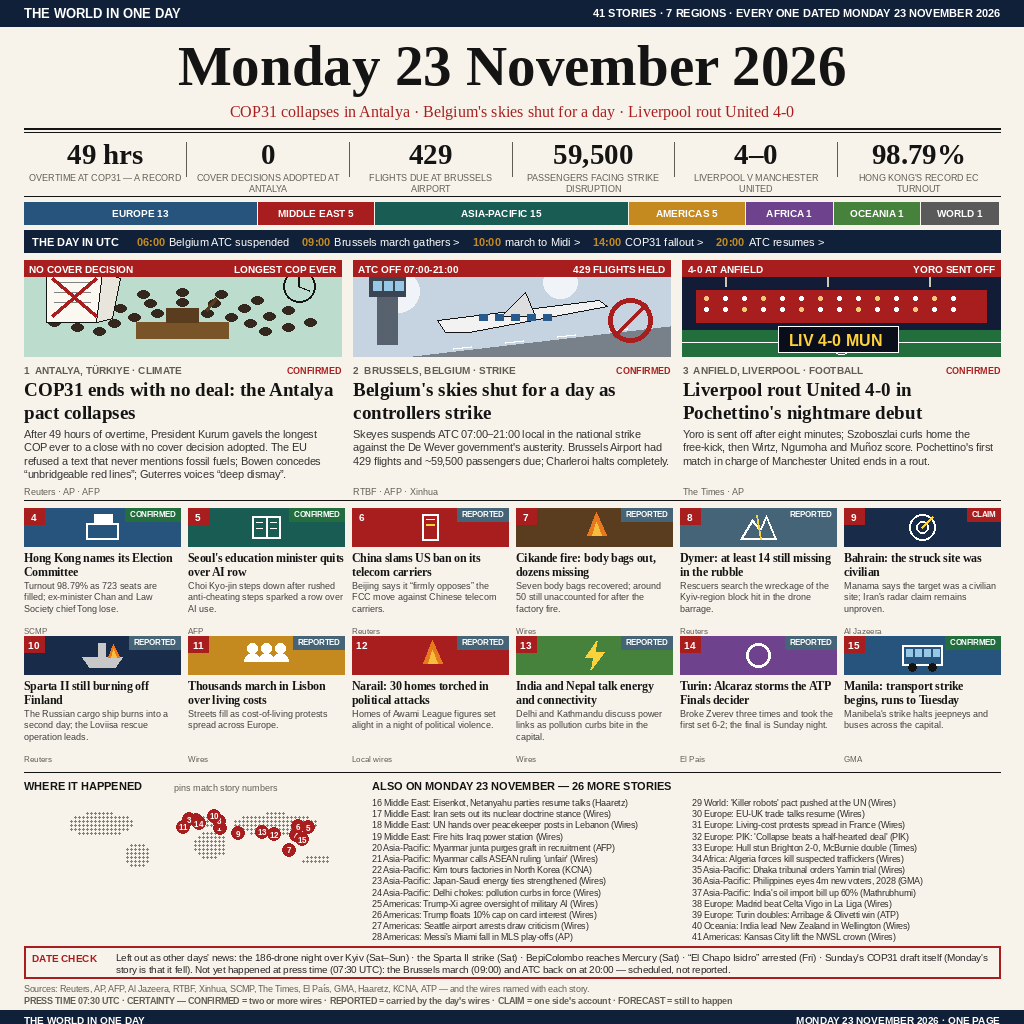
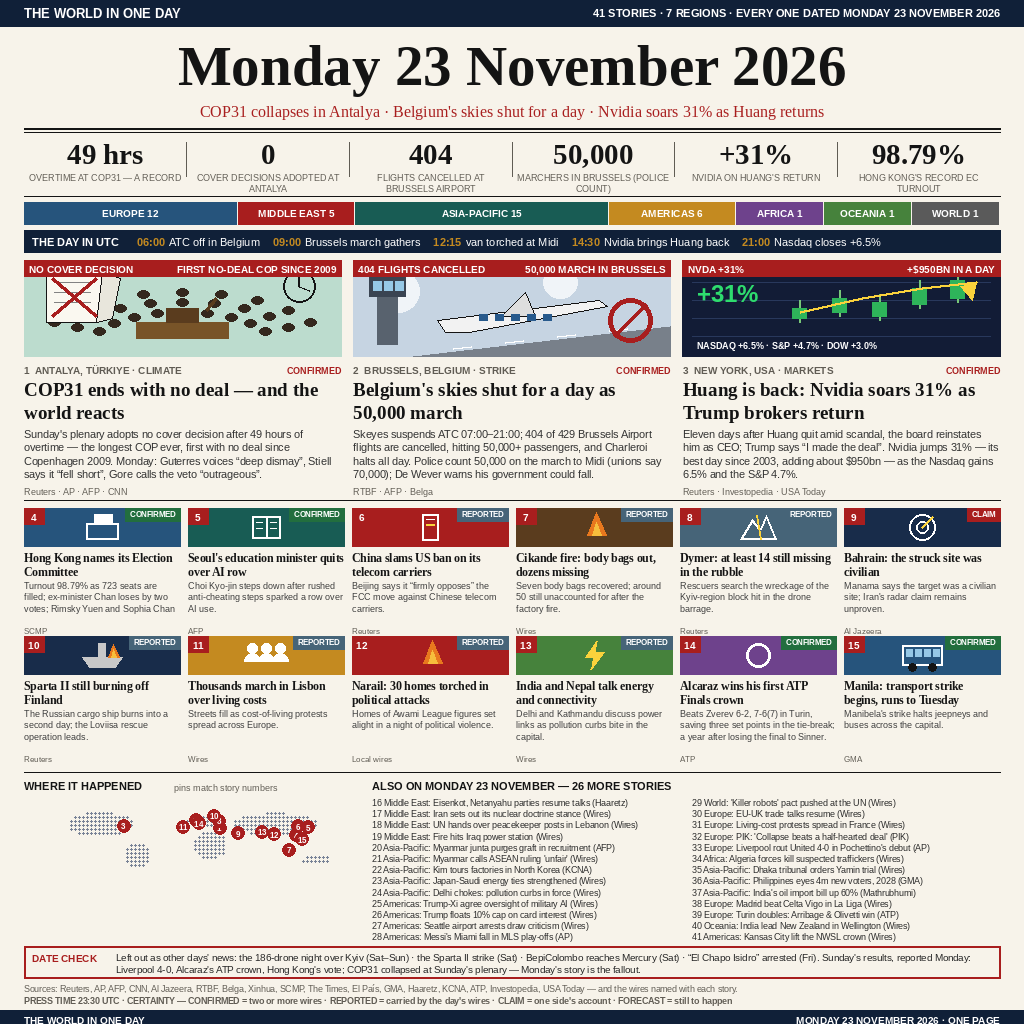
v2 final: Monday 23 November 2026 — updated with confirmed Monday results

diff --git a/render.py b/render.py
@@ -1,12 +1,18 @@
 #!/usr/bin/env python3
-"""Draw the front page for Monday 23 November 2026.
+"""Draw the front page for Monday 23 November 2026 — v2 final.
 
 One broadsheet, 1024x1024: masthead, six big numbers, a region bar,
 a UTC timeline, three illustrated lead stories, twelve small cards,
 a dotted world map with numbered pins, a list of 26 further briefs,
-a date-check box and a footer. Every story is dated 23 Nov 2026
-and carries its source and a certainty tag. The drawing is fully
-deterministic: the same run always produces the same PNG bytes.
+a date-check box and a footer. v2 rebuilds the page after Monday
+(UTC) closed: the Belgium strike and the Brussels march are reported
+with their confirmed results, the COP31 panel carries Monday's
+reactions to Sunday's collapse, the ATP final has its confirmed
+winner, and the third lead is Monday's own biggest story — Nvidia
+reinstating Jensen Huang and the market surge that followed.
+Every story is dated 23 Nov 2026 and carries its source and a
+certainty tag. The drawing is fully deterministic: the same run
+always produces the same PNG bytes.
 """
 from PIL import Image, ImageDraw, ImageFont
 
@@ -21,6 +27,7 @@ PALETTE = {
     "gold": (196, 138, 32),
     "night": (18, 28, 54),
     "soft": (50, 50, 50),
+    "green": (34, 110, 62),
 }
 SERIF_B = ["/usr/share/fonts/truetype/liberation/LiberationSerif-Bold.ttf",
            "/usr/share/fonts/truetype/dejavu/DejaVuSerif-Bold.ttf"]
@@ -116,7 +123,7 @@ page.write(CANVAS[0] - MX - page.width(right, "sans_b", 11), 7,
            right, "sans_b", 11, (255, 255, 255))
 
 page.centred(34, "Monday 23 November 2026", "serif_b", 57, PALETTE["ink"])
-page.centred(102, "COP31 collapses in Antalya · Belgium's skies shut for a day · Liverpool rout United 4-0",
+page.centred(102, "COP31 collapses in Antalya · Belgium's skies shut for a day · Nvidia soars 31% as Huang returns",
              "serif", 16, PALETTE["red"])
 page.hline(128, 2)
 page.hline(132, 1)
@@ -124,9 +131,9 @@ page.hline(132, 1)
 # ---------- six big numbers ----------
 figures = [("49 hrs", "overtime at COP31 — a record"),
            ("0", "cover decisions adopted at Antalya"),
-           ("429", "flights due at Brussels Airport"),
-           ("59,500", "passengers facing strike disruption"),
-           ("4–0", "Liverpool v Manchester United"),
+           ("404", "flights cancelled at Brussels Airport"),
+           ("50,000", "marchers in Brussels (police count)"),
+           ("+31%", "Nvidia on Huang's return"),
            ("98.79%", "Hong Kong's record EC turnout")]
 cell = IW / 6
 for pos, (big, small) in enumerate(figures):
@@ -141,13 +148,13 @@ for pos, (big, small) in enumerate(figures):
 page.hline(196, 1)
 
 # ---------- region bar ----------
-regions = [("EUROPE 13", 0.24, (38, 84, 124)),
+regions = [("EUROPE 12", 0.22, (38, 84, 124)),
            ("MIDDLE EAST 5", 0.12, (168, 30, 30)),
            ("ASIA-PACIFIC 15", 0.26, (24, 92, 84)),
-           ("AMERICAS 5", 0.12, (196, 138, 32)),
+           ("AMERICAS 6", 0.13, (196, 138, 32)),
            ("AFRICA 1", 0.09, (110, 66, 140)),
            ("OCEANIA 1", 0.09, (70, 130, 60)),
-           ("WORLD 1", 0.08, (90, 90, 90))]
+           ("WORLD 1", 0.09, (90, 90, 90))]
 cursor = MX
 for label, share, hue in regions:
     seg = IW * share
@@ -158,9 +165,9 @@ for label, share, hue in regions:
 
 # ---------- the day in UTC ----------
 pen.rectangle([MX, 230, CANVAS[0] - MX, 252], fill=PALETTE["navy"])
-slots = [("THE DAY IN UTC", None), ("06:00", "Belgium ATC suspended"),
-         ("09:00", "Brussels march gathers >"), ("10:00", "march to Midi >"),
-         ("14:00", "COP31 fallout >"), ("20:00", "ATC resumes >")]
+slots = [("THE DAY IN UTC", None), ("06:00", "ATC off in Belgium"),
+         ("09:00", "Brussels march gathers"), ("12:15", "van torched at Midi"),
+         ("14:30", "Nvidia brings Huang back"), ("21:00", "Nasdaq closes +6.5%")]
 cursor = MX + 8
 for moment, what in slots:
     if what is None:
@@ -208,7 +215,7 @@ def draw_cop(x, y, w, h):
     pen.ellipse([x + w - 58, y + 10, x + w - 26, y + 42], outline=PALETTE["ink"], width=2)
     pen.line([x + w - 42, y + 26, x + w - 42, y + 16], fill=PALETTE["ink"], width=2)
     pen.line([x + w - 42, y + 26, x + w - 32, y + 30], fill=PALETTE["ink"], width=2)
-    page.red_tag(x, y, w, "NO COVER DECISION", "LONGEST COP EVER")
+    page.red_tag(x, y, w, "NO COVER DECISION", "FIRST NO-DEAL COP SINCE 2009")
 
 
 def draw_brussels(x, y, w, h):
@@ -237,53 +244,58 @@ def draw_brussels(x, y, w, h):
     cx, cy = x + w - 40, y + 60
     pen.ellipse([cx - 22, cy - 22, cx + 22, cy + 22], outline=PALETTE["red"], width=5)
     pen.line([cx - 16, cy + 16, cx + 16, cy - 16], fill=PALETTE["red"], width=5)
-    page.red_tag(x, y, w, "ATC OFF 07:00-21:00", "429 FLIGHTS HELD")
+    page.red_tag(x, y, w, "404 FLIGHTS CANCELLED", "50,000 MARCH IN BRUSSELS")
 
 
-def draw_anfield(x, y, w, h):
+def draw_nvidia(x, y, w, h):
     pen.rectangle([x, y, x + w, y + h], fill=PALETTE["night"])
-    for fx in (26, 128, 230):
-        pen.rectangle([x + fx, y + 6, x + fx + 34, y + 12], fill=(240, 240, 200))
-        pen.line([x + fx + 17, y + 12, x + fx + 17, y + 26], fill=(200, 200, 180), width=2)
-    # the Kop: red wall of supporters
-    pen.rectangle([x + 14, y + 30, x + w - 14, y + 62], fill=(168, 30, 30))
-    for row in range(2):
-        for col in range(14):
-            shade = (255, 255, 255) if (row + col) % 3 else (240, 200, 120)
-            pen.ellipse([x + 22 + col * 19, y + 36 + row * 11,
-                         x + 26 + col * 19, y + 40 + row * 11], fill=shade)
-    # pitch and centre line
-    pen.rectangle([x, y + h - 26, x + w, y + h], fill=(34, 110, 60))
-    pen.line([x, y + h - 14, x + w, y + h - 14], fill=(255, 255, 255), width=1)
-    pen.ellipse([x + w / 2 - 12, y + h - 26, x + w / 2 + 12, y + h - 2],
-                outline=(255, 255, 255), width=1)
-    # scoreboard
-    pen.rectangle([x + 96, y + 66, x + 216, y + 92], fill=(10, 14, 26),
-                  outline=(255, 255, 255))
-    page.write(x + 106, y + 71, "LIV 4-0 MUN", "sans_b", 16, (255, 210, 60))
-    page.red_tag(x, y, w, "4-0 AT ANFIELD", "YORO SENT OFF")
+    # grid lines
+    for gy in range(4):
+        yy = y + 22 + gy * 18
+        pen.line([x + 10, yy, x + w - 10, yy], fill=(40, 56, 92), width=1)
+    # the day's gain, top left, clear of the chart
+    page.write(x + 14, y + 20, "+31%", "sans_b", 24, (46, 220, 110))
+    # rising candlesticks on the right
+    base = y + h - 18
+    candles = [(110, 20, 30), (150, 26, 40), (190, 22, 36), (230, 34, 50),
+               (268, 40, 58)]
+    for off, lo, hi in candles:
+        pen.line([x + off + 7, base - hi - 8, x + off + 7, base - lo + 4],
+                 fill=(120, 200, 120), width=2)
+        pen.rectangle([x + off, base - hi, x + off + 14, base - lo],
+                      fill=(46, 180, 90))
+    # the surge arrow over the candles
+    pen.line([x + 118, base - 26, x + 180, base - 40, x + 240, base - 50,
+              x + w - 24, base - 56], fill=(250, 210, 60), width=3)
+    pen.polygon([(x + w - 24, base - 56), (x + w - 40, base - 52),
+                 (x + w - 28, base - 38)], fill=(250, 210, 60))
+    page.write(x + 14, y + h - 16, "NASDAQ +6.5% · S&P +4.7% · DOW +3.0%",
+               "sans_b", 9, (255, 255, 255))
+    page.red_tag(x, y, w, "NVDA +31%", "+$950BN IN A DAY")
 
 
 leads = [
     (draw_cop, "1  ANTALYA, TÜRKIYE · CLIMATE", "CONFIRMED",
-     "COP31 ends with no deal: the Antalya pact collapses",
-     "After 49 hours of overtime, President Kurum gavels the longest COP ever "
-     "to a close with no cover decision adopted. The EU refused a text that "
-     "never mentions fossil fuels; Bowen concedes “unbridgeable red lines”; "
-     "Guterres voices “deep dismay”.",
-     "Reuters · AP · AFP"),
+     "COP31 ends with no deal — and the world reacts",
+     "Sunday's plenary adopts no cover decision after 49 hours of "
+     "overtime — the longest COP ever, first with no deal since "
+     "Copenhagen 2009. Monday: Guterres voices “deep dismay”, Stiell "
+     "says it “fell short”, Gore calls the veto “outrageous”.",
+     "Reuters · AP · AFP · CNN"),
     (draw_brussels, "2  BRUSSELS, BELGIUM · STRIKE", "CONFIRMED",
-     "Belgium's skies shut for a day as controllers strike",
-     "Skeyes suspends ATC 07:00–21:00 local in the national strike against "
-     "the De Wever government's austerity. Brussels Airport had 429 flights "
-     "and ~59,500 passengers due; Charleroi halts completely.",
-     "RTBF · AFP · Xinhua"),
-    (draw_anfield, "3  ANFIELD, LIVERPOOL · FOOTBALL", "CONFIRMED",
-     "Liverpool rout United 4-0 in Pochettino's nightmare debut",
-     "Yoro is sent off after eight minutes; Szoboszlai curls home the "
-     "free-kick, then Wirtz, Ngumoha and Muñoz score. Pochettino's first "
-     "match in charge of Manchester United ends in a rout.",
-     "The Times · AP"),
+     "Belgium's skies shut for a day as 50,000 march",
+     "Skeyes suspends ATC 07:00–21:00; 404 of 429 Brussels Airport flights "
+     "are cancelled, hitting 50,000+ passengers, and Charleroi halts all "
+     "day. Police count 50,000 on the march to Midi (unions say 70,000); "
+     "De Wever warns his government could fall.",
+     "RTBF · AFP · Belga"),
+    (draw_nvidia, "3  NEW YORK, USA · MARKETS", "CONFIRMED",
+     "Huang is back: Nvidia soars 31% as Trump brokers return",
+     "Eleven days after Huang quit amid scandal, the board reinstates him "
+     "as CEO; Trump says “I made the deal”. Nvidia jumps 31% — its best "
+     "day since 2003, adding about $950bn — as the Nasdaq gains 6.5% and "
+     "the S&P 4.7%.",
+     "Reuters · Investopedia · USA Today"),
 ]
 panel_w = (IW - 24) / 3
 for pos, (scene, kicker, cert, head, body, src) in enumerate(leads):
@@ -352,7 +364,7 @@ def pictogram(kind, x, y, w, h, bg):
 cards = [
     {"icon": "ballot", "hue": (38, 84, 124), "no": "4", "place": "HONG KONG · ELECTION",
      "head": "Hong Kong names its Election Committee",
-     "body": "Turnout 98.79% as 723 seats are filled; ex-minister Chan and Law Society chief Tong lose.",
+     "body": "Turnout 98.79% as 723 seats are filled; ex-minister Chan loses by two votes; Rimsky Yuen and Sophia Chan win seats.",
      "src": "SCMP", "cert": "CONFIRMED"},
     {"icon": "book", "hue": (24, 92, 84), "no": "5", "place": "SEOUL · EDUCATION",
      "head": "Seoul's education minister quits over AI row",
@@ -391,9 +403,9 @@ cards = [
      "body": "Delhi and Kathmandu discuss power links as pollution curbs bite in the capital.",
      "src": "Wires", "cert": "REPORTED"},
     {"icon": "tennis", "hue": (110, 66, 140), "no": "14", "place": "TURIN · TENNIS",
-     "head": "Turin: Alcaraz storms the ATP Finals decider",
-     "body": "Broke Zverev three times and took the first set 6-2; the final is Sunday night.",
-     "src": "El País", "cert": "REPORTED"},
+     "head": "Alcaraz wins his first ATP Finals crown",
+     "body": "Beats Zverev 6-2, 7-6(7) in Turin, saving three set points in the tie-break; a year after losing the final to Sinner.",
+     "src": "ATP", "cert": "CONFIRMED"},
     {"icon": "bus", "hue": (38, 84, 124), "no": "15", "place": "MANILA · STRIKE",
      "head": "Manila: transport strike begins, runs to Tuesday",
      "body": "Manibela's strike halts jeepneys and buses across the capital.",
@@ -450,7 +462,7 @@ while gx < MAP_X + MAP_W:
         gy += step
     gx += step
 
-pins = [(1, 30.7, 36.9), (2, 4.4, 50.9), (3, -3.0, 53.4), (4, 114.2, 22.3),
+pins = [(1, 30.7, 36.9), (2, 4.4, 50.9), (3, -74.0, 40.7), (4, 114.2, 22.3),
         (5, 127.0, 37.5), (6, 116.4, 39.9), (7, 106.8, -6.2), (8, 30.5, 50.4),
         (9, 50.6, 26.2), (10, 25.0, 60.0), (11, -9.1, 38.7), (12, 90.4, 23.8),
         (13, 77.2, 28.6), (14, 7.7, 45.1), (15, 121.0, 14.6)]
@@ -480,7 +492,7 @@ further = [
     "30 Europe: EU-UK trade talks resume (Wires)",
     "31 Europe: Living-cost protests spread in France (Wires)",
     "32 Europe: PIK: 'Collapse beats a half-hearted deal' (PIK)",
-    "33 Europe: Hull stun Brighton 2-0, McBurnie double (Times)",
+    "33 Europe: Liverpool rout United 4-0 in Pochettino's debut (AP)",
     "34 Africa: Algeria forces kill suspected traffickers (Wires)",
     "35 Asia-Pacific: Dhaka tribunal orders Yamin trial (Wires)",
     "36 Asia-Pacific: Philippines eyes 4m new voters, 2028 (GMA)",
@@ -502,22 +514,22 @@ for pos, item in enumerate(further):
 pen.rectangle([MX, 946, CANVAS[0] - MX, 978], outline=PALETTE["red"], width=2)
 page.write(MX + 8, 952, "DATE CHECK", "sans_b", 10, PALETTE["red"])
 check = ("Left out as other days' news: the 186-drone night over Kyiv (Sat–Sun) · the Sparta II strike (Sat) · "
-         "BepiColombo reaches Mercury (Sat) · “El Chapo Isidro” arrested (Fri) · Sunday's COP31 draft itself "
-         "(Monday's story is that it fell). Not yet happened at press time (07:30 UTC): the Brussels march "
-         "(09:00) and ATC back on at 20:00 — scheduled, not reported.")
+         "BepiColombo reaches Mercury (Sat) · “El Chapo Isidro” arrested (Fri). Sunday's results, reported "
+         "Monday: Liverpool 4-0, Alcaraz's ATP crown, Hong Kong's vote; COP31 collapsed at Sunday's plenary — "
+         "Monday's story is the fallout.")
 page.para(MX + 92, 952, check, "sans", 9.5, (40, 40, 40), IW - 104, 12, 2)
 
 # ---------- footer ----------
 page.write(MX, 984,
-           "Sources: Reuters, AP, AFP, Al Jazeera, RTBF, Xinhua, SCMP, The Times, El País, GMA, Haaretz, KCNA, ATP — and the wires named with each story.",
+           "Sources: Reuters, AP, AFP, CNN, Al Jazeera, RTBF, Belga, Xinhua, SCMP, The Times, El País, GMA, Haaretz, KCNA, ATP, Investopedia, USA Today — and the wires named with each story.",
            "sans", 8.5, PALETTE["grey"])
 page.write(MX, 996,
-           "PRESS TIME 07:30 UTC · CERTAINTY — CONFIRMED = two or more wires · REPORTED = carried by the day's wires · CLAIM = one side's account · FORECAST = still to happen",
+           "PRESS TIME 23:30 UTC · CERTAINTY — CONFIRMED = two or more wires · REPORTED = carried by the day's wires · CLAIM = one side's account · FORECAST = still to happen",
            "sans_b", 8.5, PALETTE["grey"])
 pen.rectangle([0, 1010, CANVAS[0], CANVAS[1]], fill=PALETTE["navy"])
 page.write(MX, 1014, "THE WORLD IN ONE DAY", "sans_b", 10, (255, 255, 255))
 tail = "MONDAY 23 NOVEMBER 2026 · ONE PAGE"
 page.write(CANVAS[0] - MX - page.width(tail, "sans_b", 10), 1014, tail, "sans_b", 10, (255, 255, 255))
 
-page.img.save("/home/hatch/workspace/makefun-news-1123/build/entry.png")
+page.img.save("/home/hatch/workspace/makefun-news-1123/build-v2/entry.png")
 print("saved entry.png")

diff --git a/main.py b/main.py
@@ -1,5 +1,5 @@
 #!/usr/bin/env python3
-"""Entry point for the make.fun bounty news-image-20261123.
+"""Entry point for the make.fun bounty news-image-20261123 (v2 final).
 
 Copies the bundled front page (entry.png, 1024x1024 PNG, under 1 MiB)
 to /output/entry.png. No network access, no randomness: every run

diff --git a/README.md b/README.md
@@ -38,12 +38,16 @@ source and a certainty level: CONFIRMED means two or more wires
 carried it, REPORTED means the day's wires carried it, CLAIM
 means it is one side's account.
 
+This is the v2 final version, rebuilt after Monday (UTC) closed.
 The three leads: COP31 in Antalya ending with no cover decision
-after a record 49 hours of overtime; Belgium's national strike
-shutting air traffic control from 07:00 to 21:00, with 429
-flights and about 59,500 passengers due at Brussels Airport;
-and Liverpool beating Manchester United 4-0 at Anfield in
-Mauricio Pochettino's first match in charge. Reporting was
-checked against the wires and major outlets of the day
-(among them Reuters, AP, AFP, Al Jazeera, RTBF, Xinhua, SCMP,
-The Times, El País, GMA, Haaretz, KCNA and ATP).
+after a record 49 hours of overtime, with Monday's reactions —
+Guterres's "deep dismay", Stiell's "fell short", Gore calling
+the fossil-fuel veto "outrageous"; Belgium's national strike,
+with 404 of 429 Brussels Airport flights cancelled and 50,000
+people marching in Brussels; and Nvidia reinstating Jensen
+Huang as CEO after President Trump's intervention, the shares
+jumping 31% and adding about $950bn in a day as the Nasdaq
+gained 6.5%. Reporting was checked against the wires and major
+outlets of the day (among them Reuters, AP, AFP, CNN, Al
+Jazeera, RTBF, Belga, Xinhua, SCMP, The Times, El País, GMA,
+Haaretz, KCNA, ATP, Investopedia and USA Today).
